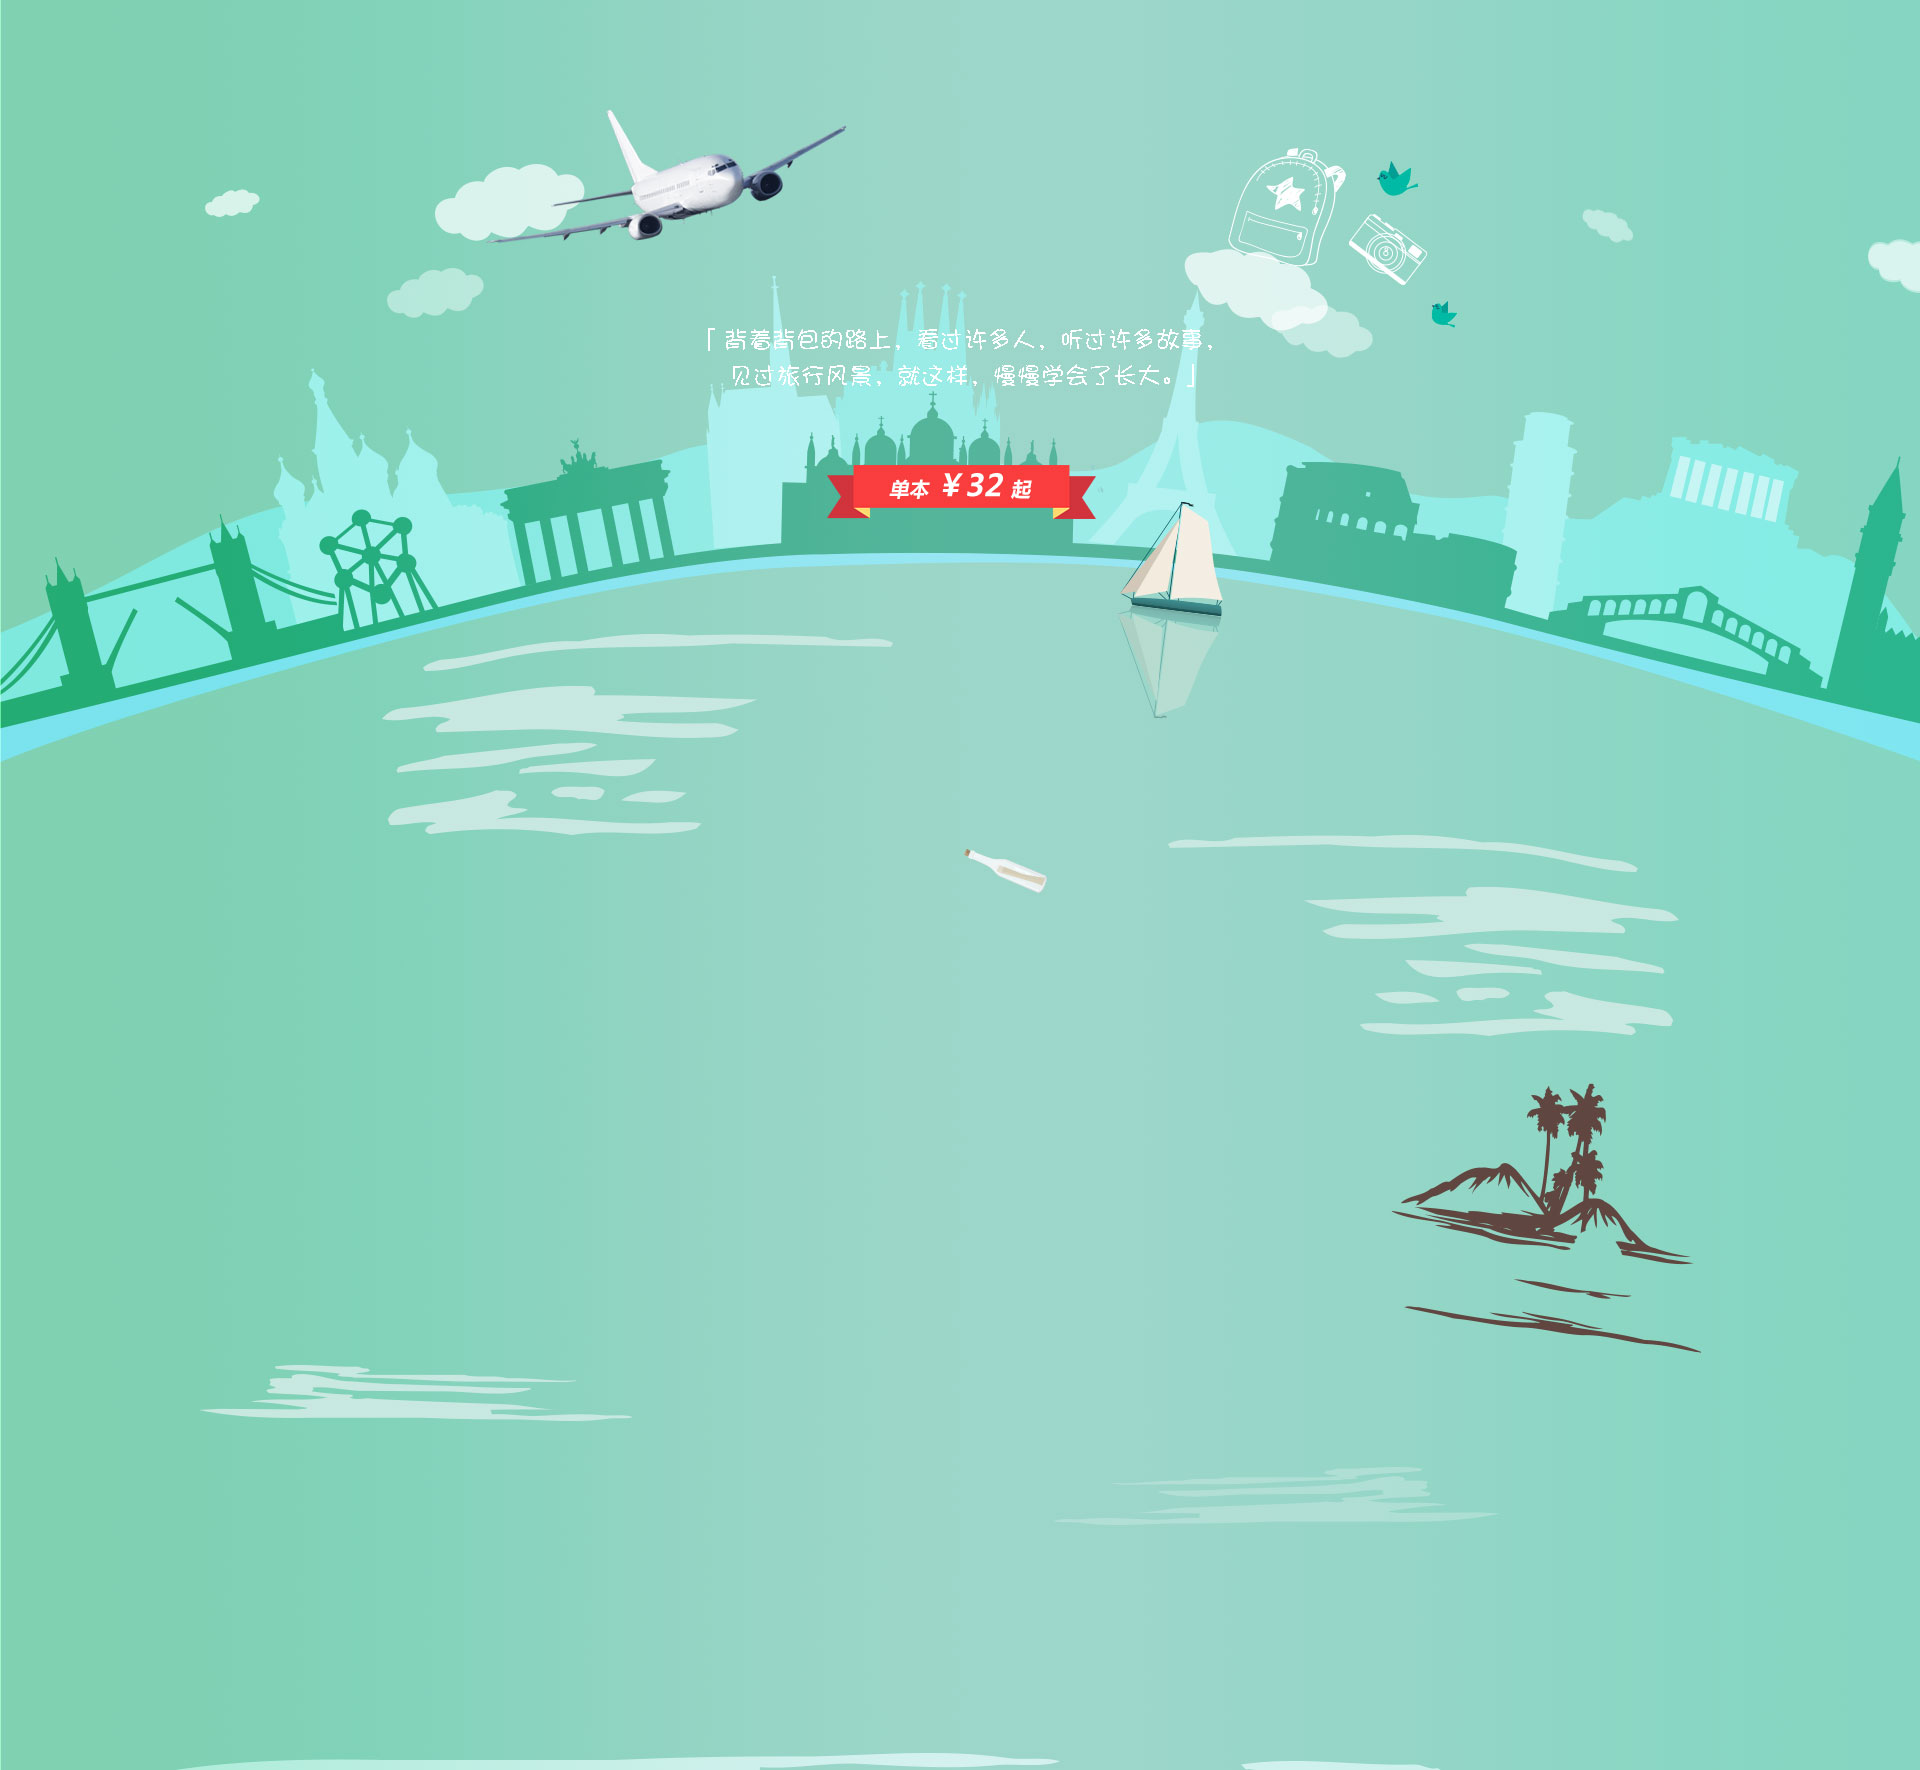
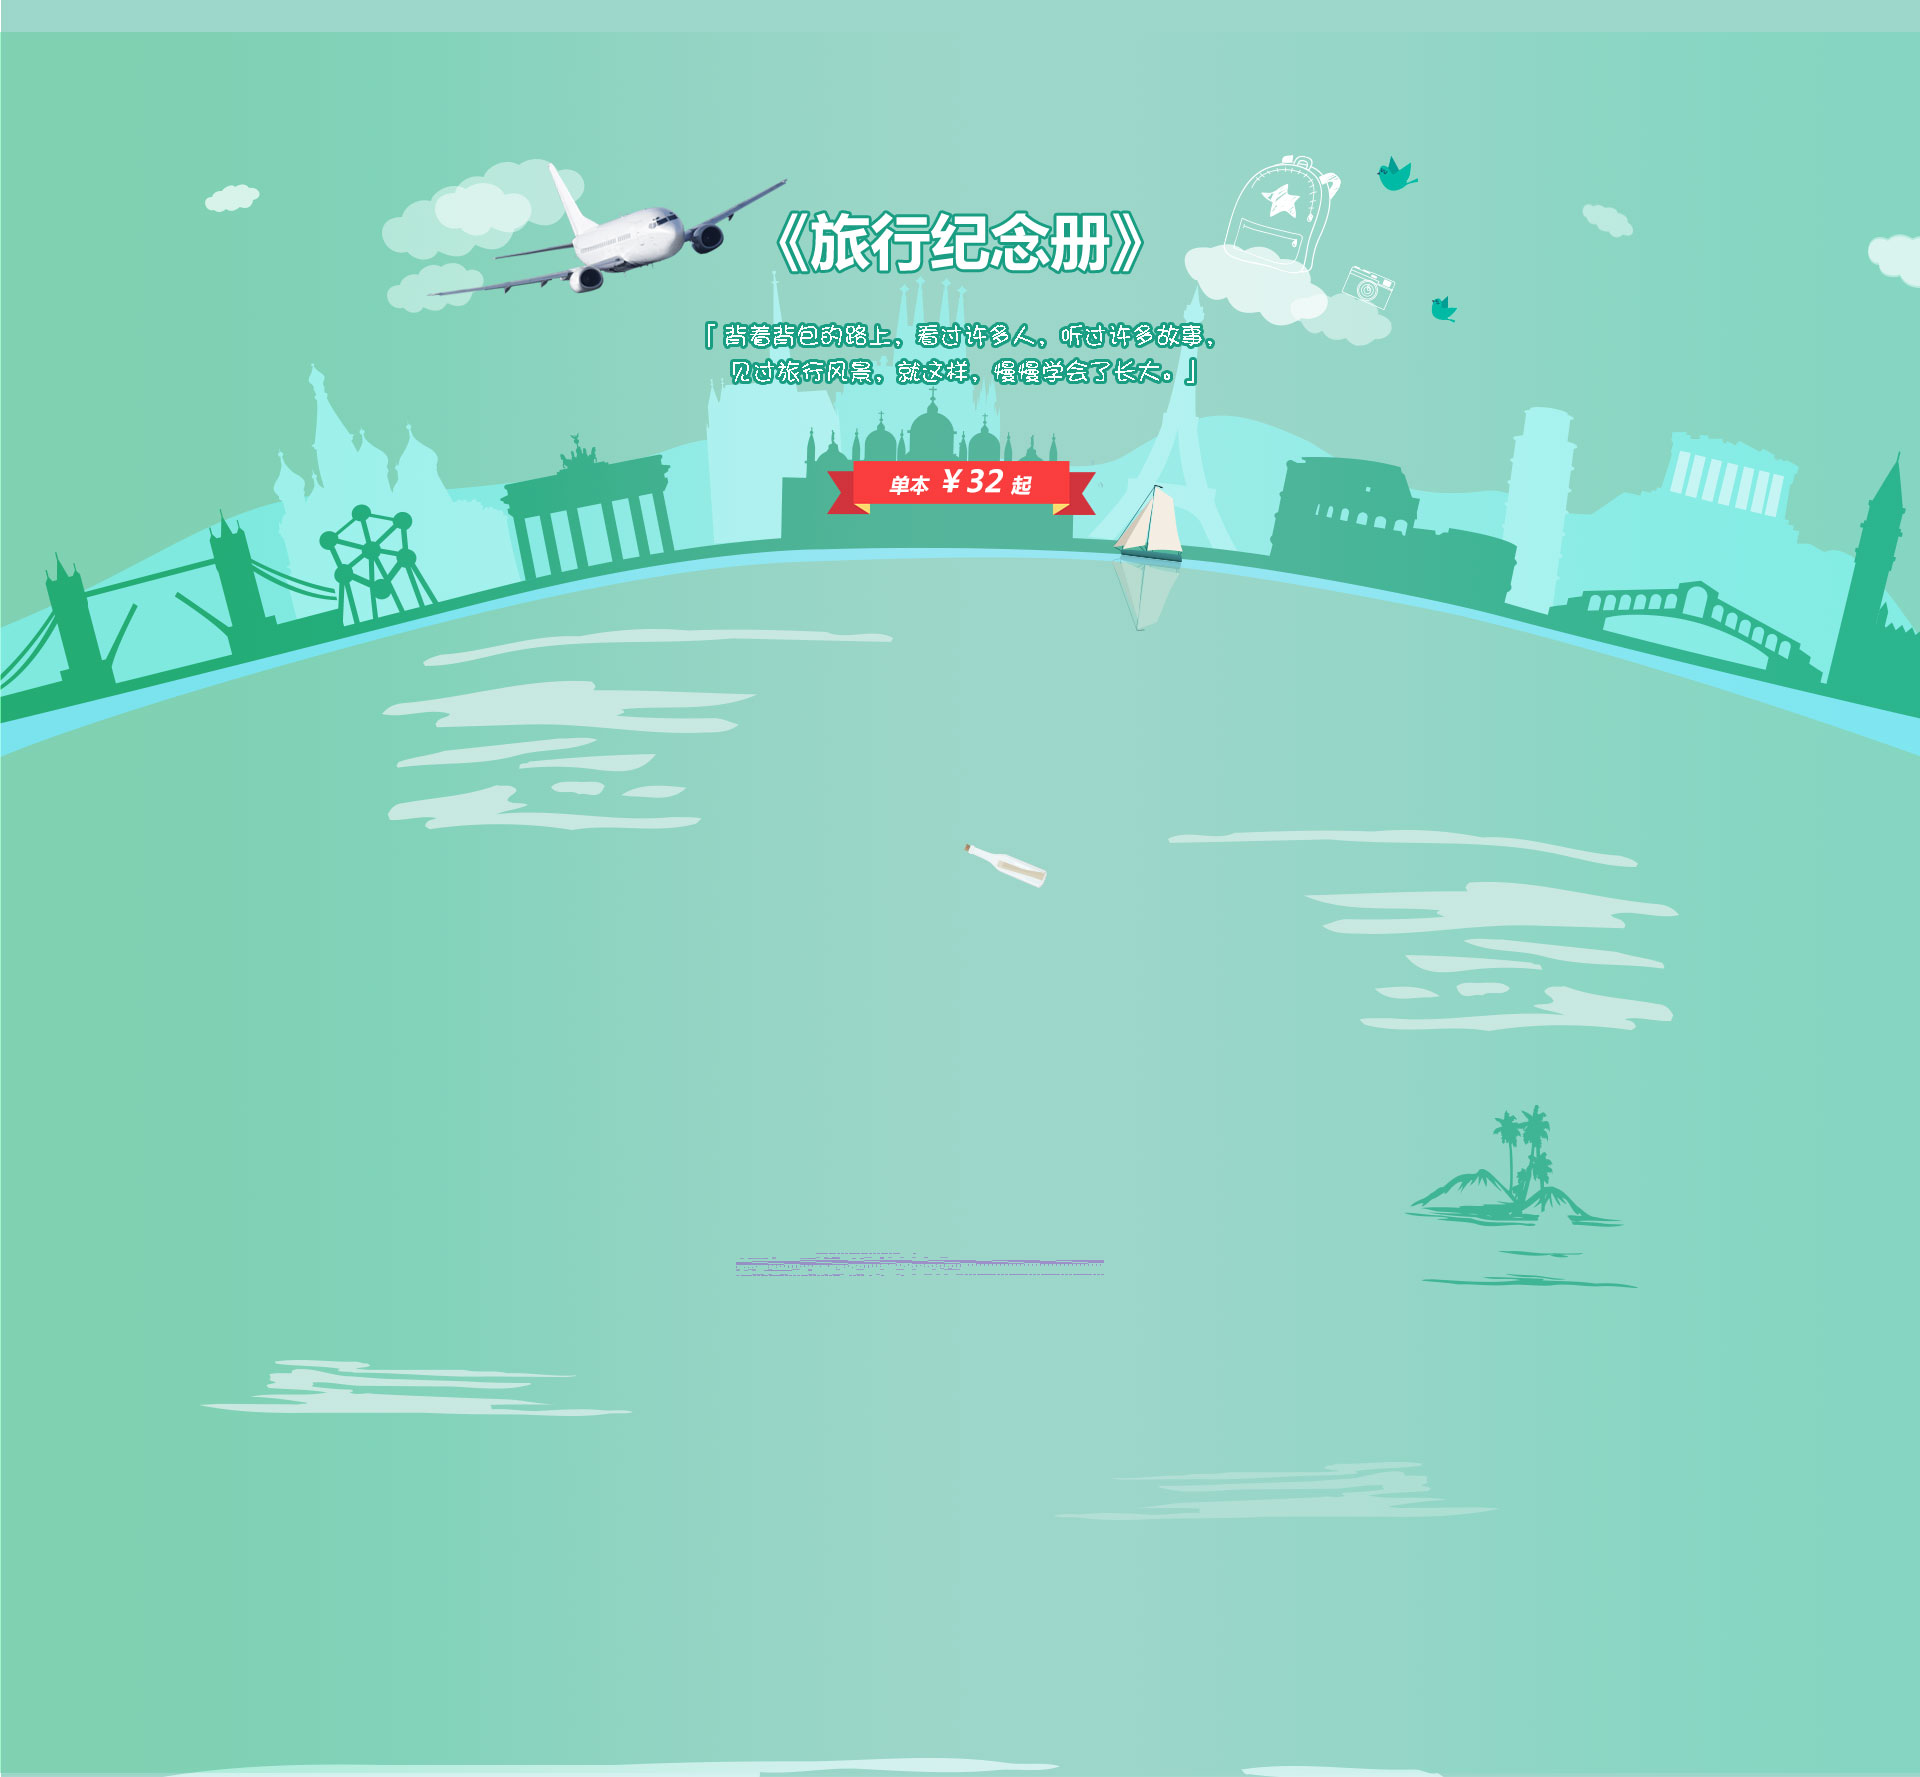
modified sem

diff --git a/src/sem_tourism.html b/src/sem_tourism.html
@@ -45,9 +45,7 @@
 	<!-- main -->
 	<div class='sem_tourism_container'>
 		<div class='sem_mainlist_container'>
-			<div class='sem_title_wrapper'>
-				《旅行纪念册》
-			</div>
+			<div class='sem_title_wrapper'></div>
 			<div class='sem_mainlist_wrapper'>
 				<ul>
 					<li>
@@ -174,32 +172,41 @@
 				<a class='sem_moretpl_btn' href="javascript:;">更多模板</a>
 			</div>
 		</div>
-		<DIV class='sem_actvity_wrapper'>
-			<div class='sem_actvity_item'>
-				<h5>关注公众号领取优惠券</h5>
-				<div>
-					<span class='underway ybiconfont ybicon-underway'></span>
-					<img src="img/sem/sem_activity_1.jpg">
+		<div class='sem_actvity_container'>
+			<DIV class='sem_actvity_wrapper'>
+				<div class='sem_actvity_item'>
+					<h5>
+						关注公众号领取优惠券
+						<span class='underway ybiconfont ybicon-underway'></span>
+					</h5>
+					<div>
+						<img src="img/sem/sem_activity_1.jpg">
+					</div>
+					<p>
+						1、使用微信扫码并关注忆尔公众号
+						<br> 2、忆尔公众号会发送给您4张优惠券
+						<br> 3、下单时输入优惠券码享受优惠
+					</p>
 				</div>
-				<p>
-					1、使用微信扫码并关注忆尔公众号
-					<br> 2、忆尔公众号会发送给您4张优惠券
-					<br> 3、下单时输入优惠券码享受优惠
-				</p>
-			</div>
-			<div class='sem_actvity_item'>
-				<h5>照片书晒单红包拿不停</h5>
-				<div>
-					<span class='finished ybiconfont ybicon-finished'></span>
-					<img src="img/sem/sem_activity_2.jpg">
+				<div class='sem_actvity_item'>
+					<h5>
+						照片书晒单红包拿不停
+						<span class='finished ybiconfont ybicon-finished'></span>
+					</h5>
+					<div>
+						<img src="img/sem/sem_activity_2.jpg">
+						<img src="img/sem/sem_activity_3.jpg">
+					</div>
+					<p>
+						1、您收到书册后将实物照分享至任一社交平台（朋友圈、QQ空间、微博）
+						<br> 2、截图并联系客服，同时告知您的订单编号和支付宝账号z
+						<br> 3、直接获得现金红包，金额为实付支付的5%，最低￥3元，最高￥200元
+					</p>
 				</div>
-				<p>
-					1、您收到书册后将实物照分享至任一社交平台（朋友圈、QQ空间、微博）
-					<br> 2、截图并联系客服，同时告知您的订单编号和支付宝账号z
-					<br> 3、直接获得现金红包，金额为实付支付的5%，最低￥3元，最高￥200元
-				</p>
-			</div>
-		</DIV>
+				<!-- <img class='sem_actvitybg_item' src="img/sem/sem_boat_bg.jpg"> -->
+			</DIV>
+		</div>
+		
 		<div class='sem_deliverguarantee_wrapper'>
 			<h5>
 				5个工作日内发货

diff --git a/src/css/sem.css b/src/css/sem.css
@@ -79,7 +79,7 @@
 	overflow: hidden;
 }
 .sem_bookname_item:hover{
-	text-decoration: underline;
+	color: #a9bf00;
 }
 .sem_eye_item{
 	font-size: 30px;
@@ -132,7 +132,6 @@
 	font-size: 30px;
 	color: #fff;
 	border-radius: 10px;
-/*	border: 3px solid #fff;*/
 	background-color: #ee688f;
 	text-align: center;
 	position: relative;
@@ -147,7 +146,6 @@
 .sem_deliverguarantee_wrapper{
 	width: 100%;
 	height: 450px;
-	background-color: #efefeb;
 	overflow: hidden;
 }
 .sem_deliverguarantee_wrapper h5{
@@ -211,41 +209,59 @@
 	display: block;
 	margin: 60px auto;
 }
+.sem_actvity_container{
+	width: 100%;
+	position: relative;
+	background-image: url(../img/sem/sem_boat_bg.jpg);
+	background-position: bottom;
+	background-repeat: no-repeat;
+}
 .sem_actvity_wrapper{
 	margin: 0 auto;
 	padding: 0 0 70px 0;
 	width: 940px;
+	
 }
 .sem_actvity_wrapper:after{
 	content: '';
 	display: block;
 	clear: both;
 }
+.sem_actvitybg_item{
+	display: block;
+	position: absolute;
+	bottom: 0;
+	left: 0;
+}
 .sem_actvity_item h5{
 	padding: 45px 0 15px 0;
 	font-size: 24px;
+	position: relative;
 }
-.sem_actvity_item:first-child{
-	width: 390px;
+.sem_actvity_item:first-child img{
+	width: 100%;
 }
 .sem_actvity_item{
 	float: left;
-	width: 470px;
+
 }
 .sem_actvity_item div{
-	height: 300px;
+	padding: 20px 0 0 0;
+	border-top: 4px solid #a7be4a;
+	overflow: hidden;
 }
 .sem_actvity_item:first-child{
-	margin: 0 75px 0 0;
+	margin: 0 85px 0 0;
+	width: 380px;
 }
-.sem_actvity_item>div{
-	position: relative;
+.sem_actvity_item img:first-child{
+	padding: 0;
 }
 .sem_actvity_item img{
-	display: block;
-	width: 100%;
-	height: 300px;
-	border-top: 4px solid #a7be4a;
+	display: inline-block;
+	padding: 0 0 0 10px;;
+	width: 230px;
+	height: 230px;
 }
 .sem_actvity_item p{
 	margin: 20px 0 0 0;
@@ -260,7 +276,7 @@
 	color: rgba(255,0,0,0.4);
 	position: absolute;
 	right: -60px;
-	top: -60px;
+	top: 10px;
 	transform:rotate(60deg);
 }
 /*~~~~~~~~~~footer_menu_container~~~~~~~~~~*/
@@ -561,6 +577,9 @@
 	box-shadow: 3px 3px #ccc;
 	background: url(../img/sem/sem_portrait_bg.jpg);
 }
+/*.sem_love_container .sem_banner_wrapper{
+	height: 768px;
+}*/
 .sem_portrait_container .sem_banner_wrapper{
 	position: relative;
 	z-index: 2;
@@ -619,4 +638,4 @@
 .sem_portrait_container .sem_deliverguarantee_wrapper h5{
 	color: #666666;
 }
-	
+

diff --git a/src/sem_loveandportrait.html b/src/sem_loveandportrait.html
@@ -45,7 +45,7 @@
 	<!-- main -->
 	<div class='sem_love_container'>
 		<div class='sem_banner_wrapper'>
-			<img src="img/sem/sem_title_love.png">
+			<img src="img/sem/sem_title_love_00000.png">
 		</div>
 		<div class='sem_mainlist_container'>
 			<div class='sem_mainlist_wrapper'>
